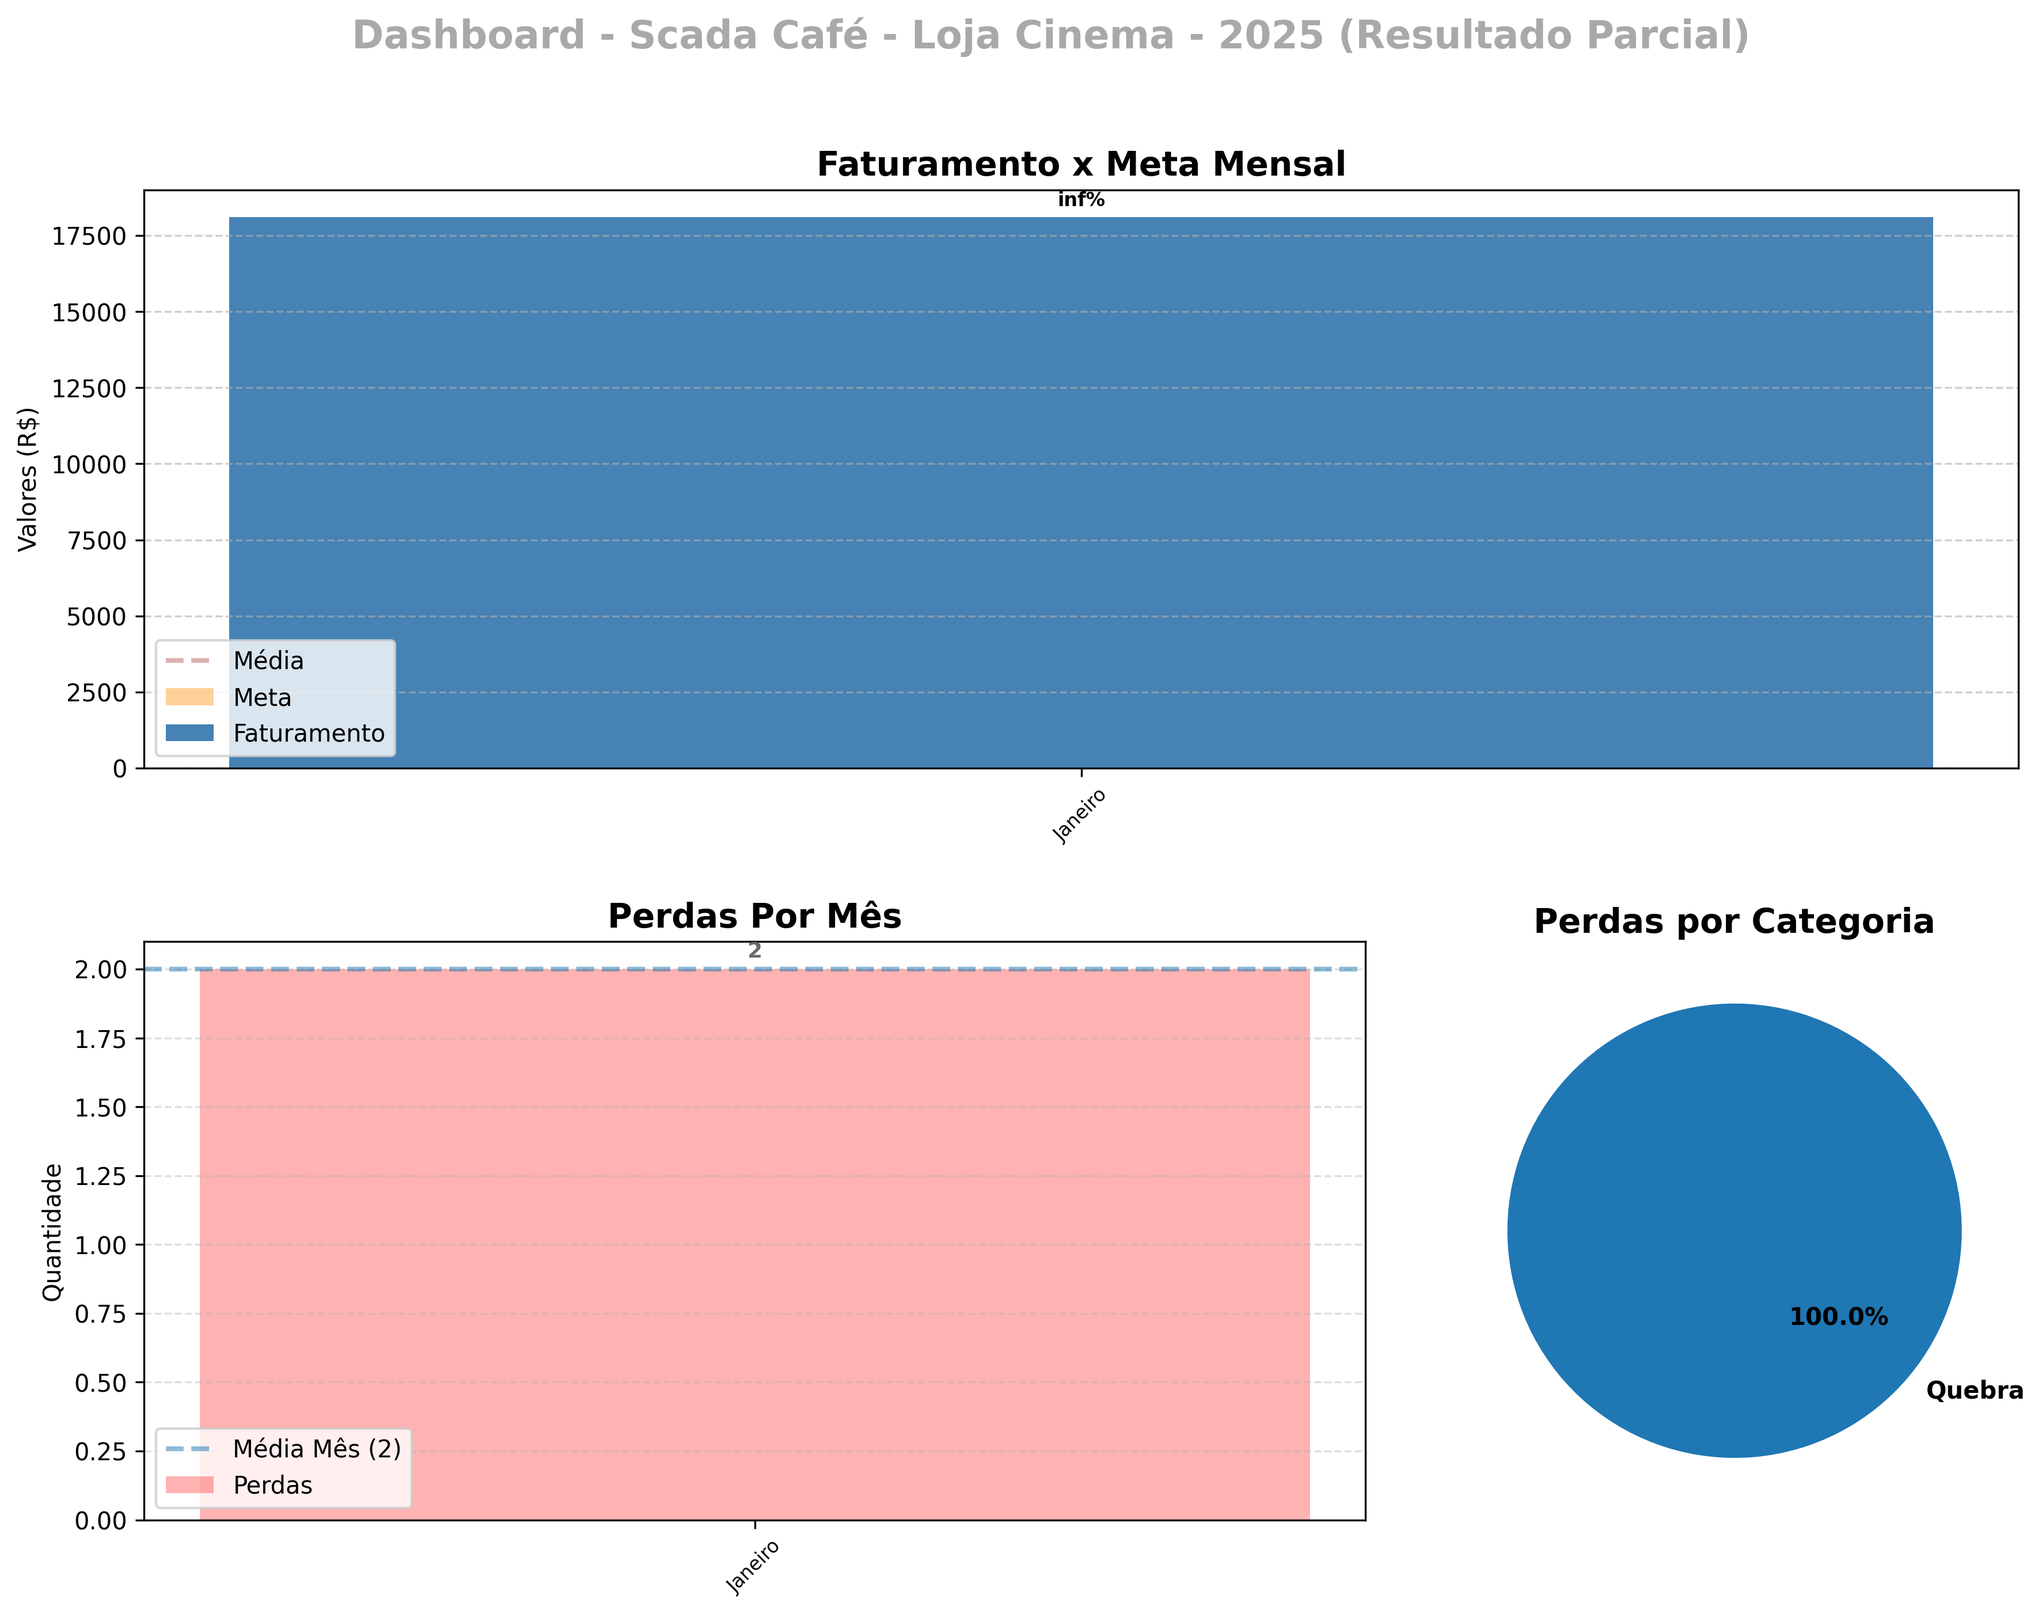
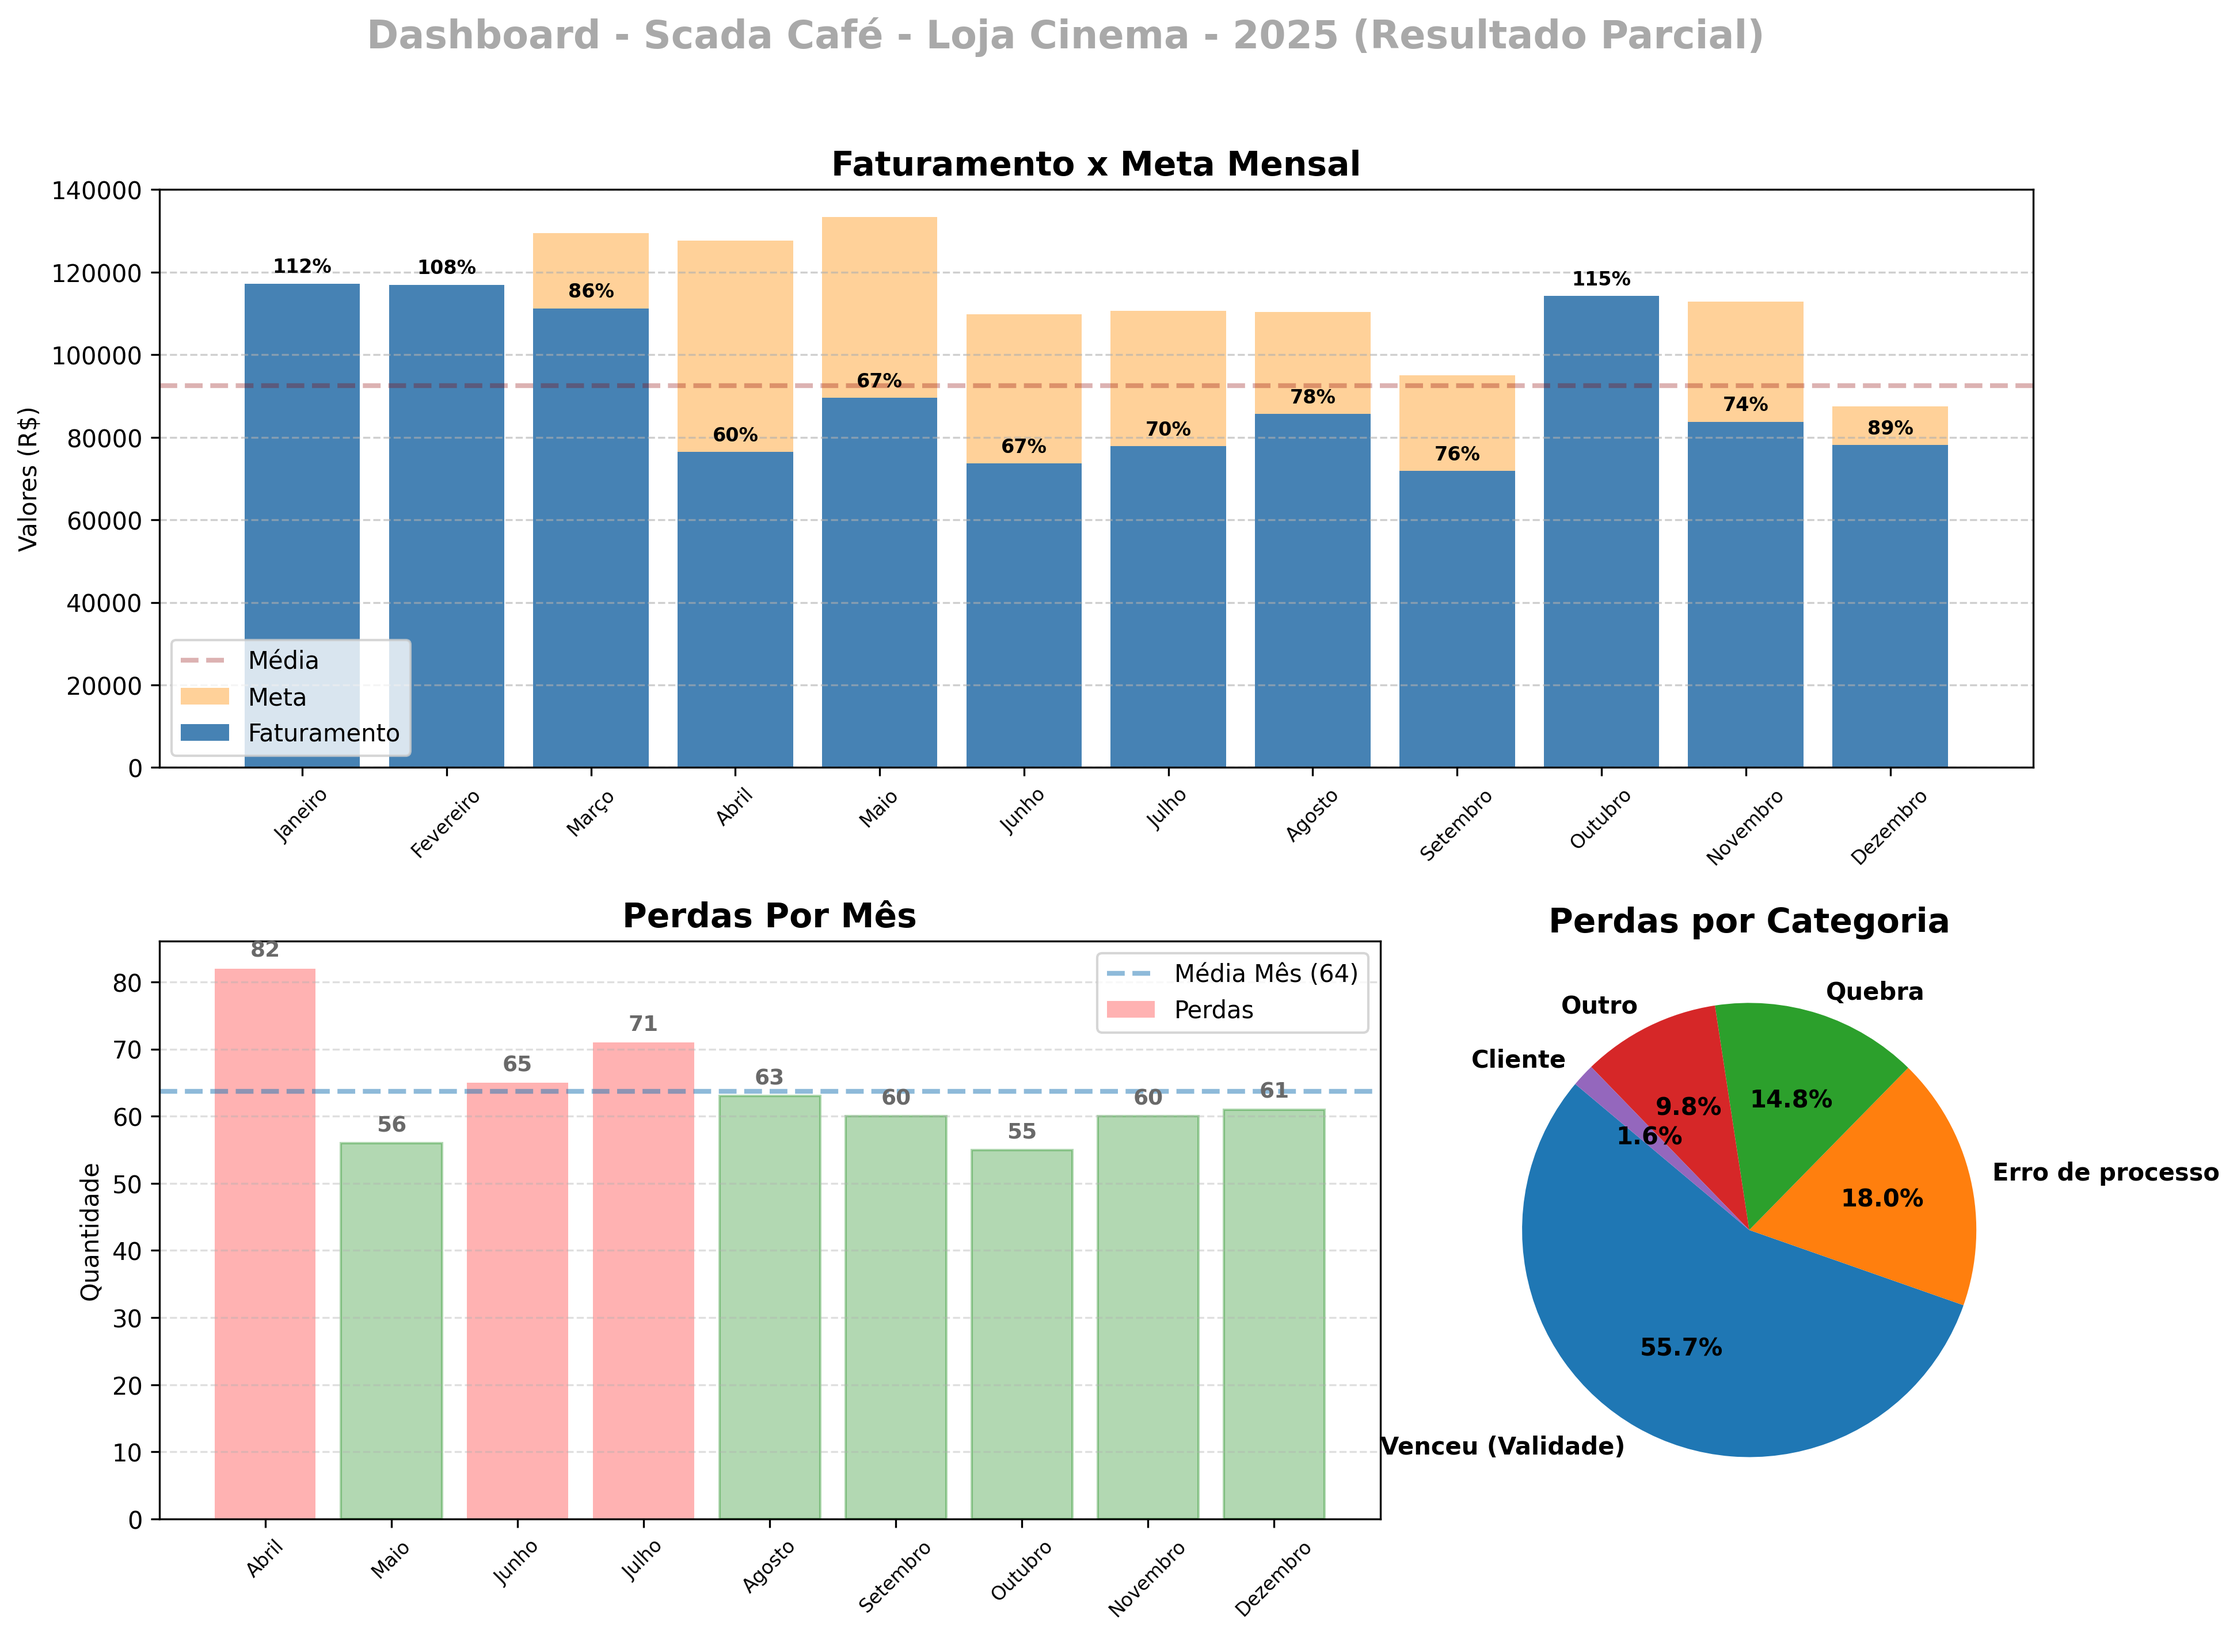
updates

diff --git a/scada_cafe.py b/scada_cafe.py
@@ -18,8 +18,11 @@ print(f"Faltam {dias_restantes} dias para terminar o mês.")
 
 
 #- - - - - - - - - - - - - - - - - - - - - - - - - - - - - - - - - - - - - - - - - 
-ANO_EXIBICAO = 2026
-MES_EXIBICAO = 1
+#ANO_EXIBICAO = 2026
+#MES_EXIBICAO = 1
+
+ANO_EXIBICAO = int(input("Digite o ano a ser analisado (YYYY): "))
+MES_EXIBICAO = int(input("Digite o mês a ser analisado (MM): "))
 #- - - - - - - - - - - - - - - - - - - - - - - - - - - - - - - - - - - - - - - - - 
 
 
